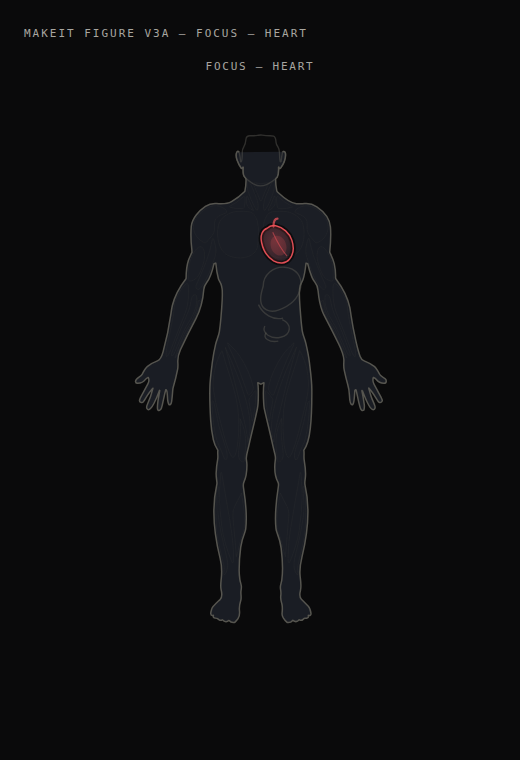
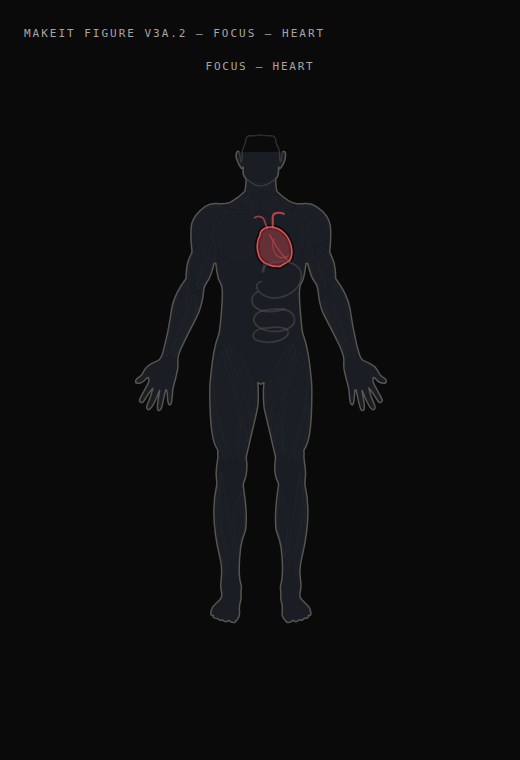
fix(figure): v3A.2 redraw heart and gut so they read as organs
v3A.1 changed dosage, not glyph language. Tom: peach heart, balloon
gut. Heart is now a fist — wide base, apex down-right, aorta+pulm.
Gut is an open J plus horizontal bowel loops in the abdomen.

Changed region(s): [[0.4923, 0.2724, 0.5846, 0.4539], [0.3692, 0.0303, 0.6154, 0.0605]]

diff --git a/src/components/brand/MakeItFigure.tsx b/src/components/brand/MakeItFigure.tsx
@@ -13,8 +13,9 @@ import type { Domain } from "./DomainMark";
  * Brand body-map. Charcoal outline traced from AnatomyFigure
  * (OUTLINES.male.front) so we do not introduce a second body language.
  *
- * v3A craft-pass (docs/MAKEIT_FIGURE.md §2): lift organ craft on the
- * existing silhouette. Do not replace OUTLINES.male.front — that is v3B.
+ * v3A.2 glyph-pass (docs/MAKEIT_FIGURE.md §2): anatomical heart +
+ * J-stomach/coils on the existing silhouette. Do not replace
+ * OUTLINES.male.front — that is v3B.
  *
  * highlightedDomains lights only the matching anchor. Food draws the
  * 1px --food halo + soft glow only when food is the focused highlight
@@ -54,41 +55,62 @@ export const ALL_DOMAINS: readonly Domain[] = ["mind", "heart", "body", "food"];
 export const GUT_Y_MAX = 650;
 
 const FOOD_GLOW_FILTER_BASE = "makeit-figure-food-glow";
-const HEART_VOLUME_GRAD_BASE = "makeit-figure-heart-volume";
 
 /**
- * Anatomical heart / region — person's left, viewer's right.
- * Tilted organ: wider base, apex down-right (person's left). Not a
- * valentine (no cleft, no symmetric lobes). Absolute M/C for tests.
+ * Anatomical heart — person's left / viewer's right, thorax.
+ * Wide base + pointed apex down-right. Two great-vessel stubs, not
+ * a peach stem. Absolute M/C so tests can lock placement.
+ *
+ * v3A.1 blob+stem read as a peach. This outline is fist-like:
+ * steeper right border (RA/RV), convex LV, apex at the point.
  */
 export const HEART_VOLUME =
-  "M380 360C368 364 362 378 366 396C370 416 380 432 396 442C410 450 426 450 436 438C446 426 448 408 442 390C436 372 420 358 402 354C394 352 386 354 380 360Z";
+  "M362 378C354 390 352 412 360 432C368 448 388 458 412 456L436 442C446 428 444 400 428 378C414 360 392 352 374 360C366 364 362 370 362 378Z";
 
-/** Inner chamber — left-ventricle volume, slightly inset toward the apex. */
+/** LV cavity hint — editorial stroke, not a second fruit. */
 export const HEART_CHAMBER =
-  "M398 380C390 384 386 396 390 410C394 422 406 432 418 428C428 424 432 410 426 396C422 384 410 376 398 380Z";
+  "M398 386C392 396 392 412 400 424C408 436 424 438 434 428";
 
-/** Anterior interventricular groove — diagonal toward the apex, not a cleft. */
-export const HEART_SULCUS = "M394 370C404 392 416 414 430 430";
+/** Septum / anterior groove — diagonal to the apex, not a cleft. */
+export const HEART_SULCUS = "M386 376C398 400 414 426 436 444";
 
-/** Short ascending-vessel stem at the base — a tube, not a loop. */
-export const HEART_VESSEL = "M396 356C396 344 400 336 406 336";
+/** Ascending aorta — rises and arches. A T of vessels, not a fruit stem. */
+export const HEART_AORTA = "M394 358L394 332C394 322 408 318 422 324";
+
+/** Pulmonary stub — shorter, left of the aorta. */
+export const HEART_PULM = "M380 360L372 338C368 330 356 328 348 334";
 
 /**
- * J-stomach in the upper abdomen, fundus on the person's left
- * (viewer's right). Closed path for a soft --food fill.
+ * J-stomach: open pouch — fundus under the left ribs (viewer's
+ * right), body, antrum hooking toward the midline. Not a circle
+ * with a tail. Esophagus marks it as a tract.
  */
-export const GUT_STOMACH =
-  "M370 506C370 476 396 456 424 458C452 460 470 482 464 510C458 538 436 556 408 566C386 574 366 564 364 544C362 528 368 514 370 506Z";
+export const GUT_ESOPHAGUS = "M372 448L372 470";
 
-/** Intestinal coils — stay inside the abdomen (Y ≤ GUT_Y_MAX). */
+/** Open J: fundus right, pylorus hooks left toward the midline. */
+export const GUT_STOMACH =
+  "M368 470C368 452 392 442 424 444C448 446 468 460 466 482C464 504 448 522 420 532C396 540 372 534 358 518C350 508 354 496 366 494";
+
+/** Soft fundus volume — the bag of the J, offset right. */
+export const GUT_FUNDUS =
+  "M412 452C436 448 458 462 458 484C458 504 440 520 418 522C400 524 390 510 394 490C398 470 400 456 412 452Z";
+
+/**
+ * Horizontal bowel loops filling the abdominal cavity — not a
+ * vertical string of coils. Y ≤ GUT_Y_MAX.
+ */
 export const GUT_COILS = [
-  "M358 552C370 576 394 592 420 586",
-  "M418 590C444 602 440 628 414 634C390 640 366 624 374 606",
-  "M378 622C366 636 386 648 408 644",
+  "M356 520C340 528 336 548 352 560C368 572 400 574 424 562",
+  "M428 566C452 574 456 598 436 610C416 622 380 624 358 608C336 592 348 570 376 566C400 562 420 564 428 566",
+  "M364 612C340 620 338 638 360 644C382 650 418 646 430 630C442 614 418 606 390 610C374 612 366 612 364 612",
 ] as const;
 
-export const GUT_PATHS = [GUT_STOMACH, ...GUT_COILS] as const;
+export const GUT_PATHS = [
+  GUT_ESOPHAGUS,
+  GUT_STOMACH,
+  GUT_FUNDUS,
+  ...GUT_COILS,
+] as const;
 
 export type FigureMode = "idle" | "teaching" | "focus";
 
@@ -252,7 +274,6 @@ export default function MakeItFigure({
 }) {
   const uid = useId().replace(/:/g, "");
   const foodGlowFilterId = `${FOOD_GLOW_FILTER_BASE}-${uid}`;
-  const heartVolumeGradId = `${HEART_VOLUME_GRAD_BASE}-${uid}`;
   const mindOn = isOn(highlightedDomains, "mind");
   const heartOn = isOn(highlightedDomains, "heart");
   const bodyOn = isOn(highlightedDomains, "body");
@@ -273,20 +294,10 @@ export default function MakeItFigure({
       aria-label={ariaLabel}
       data-highlighted={highlightedDomains.join(" ") || undefined}
       data-mode={mode === "idle" ? undefined : mode}
-      data-craft="v3a"
+      data-craft="v3a.2"
       overflow="visible"
     >
       <defs>
-        <radialGradient
-          id={heartVolumeGradId}
-          cx="42%"
-          cy="40%"
-          r="68%"
-        >
-          <stop offset="0%" stopColor="var(--heart)" stopOpacity="0.85" />
-          <stop offset="70%" stopColor="var(--heart)" stopOpacity="0.35" />
-          <stop offset="100%" stopColor="var(--heart)" stopOpacity="0.08" />
-        </radialGradient>
         {showFoodAura ? (
           <filter
             id={foodGlowFilterId}
@@ -403,19 +414,21 @@ export default function MakeItFigure({
         <path
           d={HEART_VOLUME}
           data-heart-layer="volume"
-          fill={heartOn ? `url(#${heartVolumeGradId})` : "none"}
+          fill={heartOn ? "var(--heart)" : "none"}
           fillOpacity={heartOn ? heart.volumeOpacity : 0}
           stroke={heart.stroke}
-          strokeWidth="1.45"
+          strokeWidth="1.55"
           strokeOpacity={heart.strokeOpacity}
           vectorEffect="non-scaling-stroke"
         />
         <path
           d={HEART_CHAMBER}
           data-heart-layer="chamber"
-          fill={heartOn ? "var(--heart)" : "none"}
-          fillOpacity={heart.chamberOpacity}
-          stroke="none"
+          fill="none"
+          stroke={heart.stroke}
+          strokeWidth="1.05"
+          strokeOpacity={heart.strokeOpacity * 0.45}
+          vectorEffect="non-scaling-stroke"
         />
         <path
           d={HEART_SULCUS}
@@ -427,12 +440,22 @@ export default function MakeItFigure({
           vectorEffect="non-scaling-stroke"
         />
         <path
-          d={HEART_VESSEL}
-          data-heart-layer="vessel"
+          d={HEART_AORTA}
+          data-heart-layer="aorta"
           fill="none"
           stroke={heart.stroke}
-          strokeWidth="2.2"
+          strokeWidth="2.1"
           strokeOpacity={heart.vesselOpacity}
+          strokeLinecap="round"
+          vectorEffect="non-scaling-stroke"
+        />
+        <path
+          d={HEART_PULM}
+          data-heart-layer="pulm"
+          fill="none"
+          stroke={heart.stroke}
+          strokeWidth="1.7"
+          strokeOpacity={heart.vesselOpacity * 0.85}
           strokeLinecap="round"
           vectorEffect="non-scaling-stroke"
         />
@@ -446,13 +469,30 @@ export default function MakeItFigure({
         data-food-aura={showFoodAura ? "full" : foodOn ? "ghost" : undefined}
       >
         <path
-          d={GUT_STOMACH}
-          data-gut="stomach"
+          d={GUT_ESOPHAGUS}
+          data-gut="esophagus"
+          fill="none"
+          stroke={food.stroke}
+          strokeWidth="1.6"
+          opacity={food.opacity}
+          strokeLinecap="round"
+          vectorEffect="non-scaling-stroke"
+        />
+        <path
+          d={GUT_FUNDUS}
+          data-gut="fundus"
           fill={food.fill}
           fillOpacity={food.fillOpacity}
+          stroke="none"
+        />
+        <path
+          d={GUT_STOMACH}
+          data-gut="stomach"
+          fill="none"
           stroke={food.stroke}
-          strokeWidth="1.4"
+          strokeWidth="1.7"
           opacity={food.opacity}
+          strokeLinecap="round"
           vectorEffect="non-scaling-stroke"
         />
         {GUT_COILS.map((d, i) => (
@@ -462,8 +502,9 @@ export default function MakeItFigure({
             data-gut="coil"
             fill="none"
             stroke={food.stroke}
-            strokeWidth="1.4"
+            strokeWidth="1.7"
             opacity={food.opacity}
+            strokeLinecap="round"
             vectorEffect="non-scaling-stroke"
           />
         ))}

diff --git a/src/components/brand/MakeItFigure.test.ts b/src/components/brand/MakeItFigure.test.ts
@@ -1,6 +1,6 @@
 /**
  * MakeItFigure is the brand body-map. Tests lock the AnatomyFigure
- * silhouette, data-domain anchors, v3A organ craft, teaching hierarchy,
+ * silhouette, data-domain anchors, v3A.2 organ glyphs, teaching hierarchy,
  * and the food-only full halo (docs/MAKEIT_FIGURE.md §2).
  */
 
@@ -35,7 +35,7 @@ describe("MakeItFigure", () => {
     expect(html).toContain(`viewBox="${VIEWBOX.male.front}"`);
     expect(html).toContain(OUTLINES.male.front.slice(0, 24));
     expect(html).toContain("makeit-figure-outline");
-    expect(html).toContain('data-craft="v3a"');
+    expect(html).toContain('data-craft="v3a.2"');
     expect(html).not.toContain("makeit-figure-halo");
     expect(html).not.toContain("makeit-figure-halo-glow");
     expect(html).not.toContain("data-highlighted");
@@ -101,12 +101,14 @@ describe("MakeItFigure", () => {
     expect(html).toContain('data-heart-layer="volume"');
     expect(html).toContain('data-heart-layer="chamber"');
     expect(html).toContain('data-heart-layer="sulcus"');
-    expect(html).toContain('data-heart-layer="vessel"');
-    expect(html).toMatch(/makeit-figure-heart-volume/);
+    expect(html).toContain('data-heart-layer="aorta"');
+    expect(html).toContain('data-heart-layer="pulm"');
     expect(html).toContain(HEART_VOLUME.slice(0, 24));
+    expect(html).not.toContain("makeit-figure-heart-volume");
     expect(html).not.toContain('data-heart-scale');
     expect(html).not.toContain("scale(2)");
     expect(html).not.toContain("M388 412c-3.4-2.8");
+    expect(html).not.toContain("M380 360C368 364");
   });
 
   it("keeps J-stomach + coils inside the abdomen (no groin escape)", () => {
@@ -114,11 +116,14 @@ describe("MakeItFigure", () => {
       const ys = pathAbsoluteYs(d);
       expect(ys.length).toBeGreaterThan(0);
       expect(Math.max(...ys)).toBeLessThanOrEqual(GUT_Y_MAX);
-      expect(Math.min(...ys)).toBeGreaterThanOrEqual(450);
+      expect(Math.min(...ys)).toBeGreaterThanOrEqual(440);
     }
     const html = render(["food"]);
+    expect(html).toContain('data-gut="esophagus"');
     expect(html).toContain('data-gut="stomach"');
+    expect(html).toContain('data-gut="fundus"');
     expect(html).toContain('data-gut="coil"');
+    expect(html).not.toContain("M370 506C370 476");
   });
 
   it("adds SVG hot-zones only when onDomainHover is provided", () => {

diff --git a/docs/MAKEIT_FIGURE.md b/docs/MAKEIT_FIGURE.md
@@ -1,7 +1,8 @@
 # MakeIt-figuren — brandets kropskort
 
 > Status: Vedtaget 2026-09-01 (Tom/CDO). Mappingen er låst. Ikke et UDKAST.
-> Craft: v3A (2026-09-03) — organ-håndværk på eksisterende omrids.
+> Craft: v3A.2 (2026-09-03) — glyf-sprog: anatomisk hjerte + J-mave.
+>   v3A.1 var dosering/stater; Tom: «fersken» / «ballon i snor».
 >   v3B = custom editorial silhuet (se `docs/briefs/MAKEIT_FIGURE_V3B_ILLUSTRATOR.md`).
 > Tokens: `src/app/globals.css`. Farveprincip: `docs/DOMAIN_COLOR_SYSTEM.md`.
 
@@ -50,7 +51,7 @@ v3A løfter håndværket **på det eksisterende omrids** (`OUTLINES.male.front`
 fra react-native-body-highlighter). Omrids-pathen røres ikke. Custom
 silhuet er v3B.
 
-To visuelle modi på `MakeItFigure` (`data-mode`, `data-craft="v3a"`):
+To visuelle modi på `MakeItFigure` (`data-mode`, `data-craft="v3a.2"`):
 
 | Mode | Hvornår | Læs |
 |------|---------|-----|
@@ -90,18 +91,22 @@ figuren ikke er i teaching. Teaching skal ikke se food-ejet ud.
 til stede som ghost-organ (`data-food-aura="ghost"`, fill ≈ 0.08,
 streg ≈ 0.55) — ikke en grøn rand om hele kroppen.
 
-### Organ-craft (v3A)
+### Organ-craft (v3A.2 glyffer)
 
-- **Hjerte:** anatomisk organ/region — blødt volumen (lag + radial
-  gradient i `--heart`), ikke valentine/emoji. Personens venstre /
-  seers højre. `data-heart="organ"`. Lag: understreg (`--bg`), volume,
-  chamber, sulcus, vessel-stub. Skal læses ved `lg:h-[36rem]`. Ingen
-  `scale(2)` på en cartoon-glyf.
-- **Fordøjelse:** tydeligere J-mave (`data-gut="stomach"`) med fundus
-  på personens venstre + tre tarmslynger (`data-gut="coil"`) der
-  **bliver i abdomen**. Alle Y-værdier ≤ `GUT_Y_MAX` (650) i viewBox
-  `0 0 724 1448`. Lysken sidder ~748 — slyngerne må ikke løbe derned.
-  Soft `--food` fill (0.14 i focus, 0.08 i teaching).
+v3A.1 ændrede dosering, ikke glyf-sproget. Tom (CEO): hjertet læste
+som en fersken, mave-tarm som en ballon i snor. v3A.2 tegner organerne
+om på samme omrids.
+
+- **Hjerte:** anatomisk knytnæve — bred base, spids apex ned-højre
+  (personens venstre / seers højre). To kar-stubs (aorta + pulmonal),
+  ikke én stilk. Septum/kammer som streg, ikke fill-sky. Stroke +
+  lav `fillOpacity` i `--heart`. `data-heart="organ"`. Lag: under,
+  volume, chamber, sulcus, aorta, pulm. Thorax: ikke hals, ikke abs.
+- **Fordøjelse:** åben J-mave (`data-gut="stomach"`) + øsofagus
+  (`data-gut="esophagus"`) + fundus-volumen (`data-gut="fundus"`) +
+  tre tarmslynger med bredde (`data-gut="coil"`) **i abdomen**.
+  Alle Y ≤ `GUT_Y_MAX` (650). Ikke en cirkel med hale. Soft `--food`
+  fill kun på fundus (0.14 i focus, 0.08 i teaching).
 - **Sind:** samme AnatomyFigure-hovedpath. Focus = fill 0.18 / streg
   1.45. Teaching = blødere (fill 0.10 / streg 1.2 / opacity 0.55) så
   den blå kant ikke vinder hele figuren.

diff --git a/docs/briefs/figure-v3a/README.md b/docs/briefs/figure-v3a/README.md
@@ -1,8 +1,28 @@
-# MakeIt Figure v3A — craft stills
+# MakeIt Figure v3A.2 — craft stills
 
 Landing-size (`lg:h-[36rem]`) and torso crops of `MakeItFigure` after
-the v3A craft-pass. Same brand tokens as `src/app/globals.css`.
-Outline is still `OUTLINES.male.front` (v3B is the custom silhouette).
+the v3A.2 **glyph** pass. Outline is still `OUTLINES.male.front`
+(v3B is the custom silhouette).
+
+## What changed vs v3A.1
+
+v3A.1 changed dosage and teaching/focus states. The glyphs were still
+a round blob + stem and a circle + tail. Tom: *«Hjertet ligner en
+fersken, og mave-tarm-system en underlig ballon i snor.»*
+
+v3A.2 redraws only those paths:
+
+- **Heart:** fist-like organ — wide base, pointed apex down-right
+  (person’s left), aorta + pulmonary stubs (two vessels, not a stem),
+  septum as a line. Stroke + low fill. No peach / valentine.
+- **Gut:** open J-stomach (fundus under left ribs, pylorus hooks to
+  midline) + esophagus + horizontal bowel loops in the abdomen.
+  Not a balloon on a string. Teaching still has no full-body green halo.
+
+If a non-designer still cannot say «heart» / «stomach» at this size,
+the ceiling is the library silhouette + editorial line-weight — see
+`docs/briefs/MAKEIT_FIGURE_V3B_ILLUSTRATOR.md`. Do not invent a third
+body in code.
 
 | File | State |
 |------|--------|
@@ -10,7 +30,7 @@ Outline is still `OUTLINES.male.front` (v3B is the custom silhouette).
 | `figure_v3a_torso-teaching.png` | Torso crop, all four teaching |
 | `figure_v3a_teaching.png` | All four, no food halo |
 | `figure_v3a_food-focus.png` | Food only, 1px + glow |
-| `figure_v3a_heart-focus.png` | Heart only, anatomical organ |
+| `figure_v3a_heart-focus.png` | Heart only |
 
 Raw (this branch):
 
